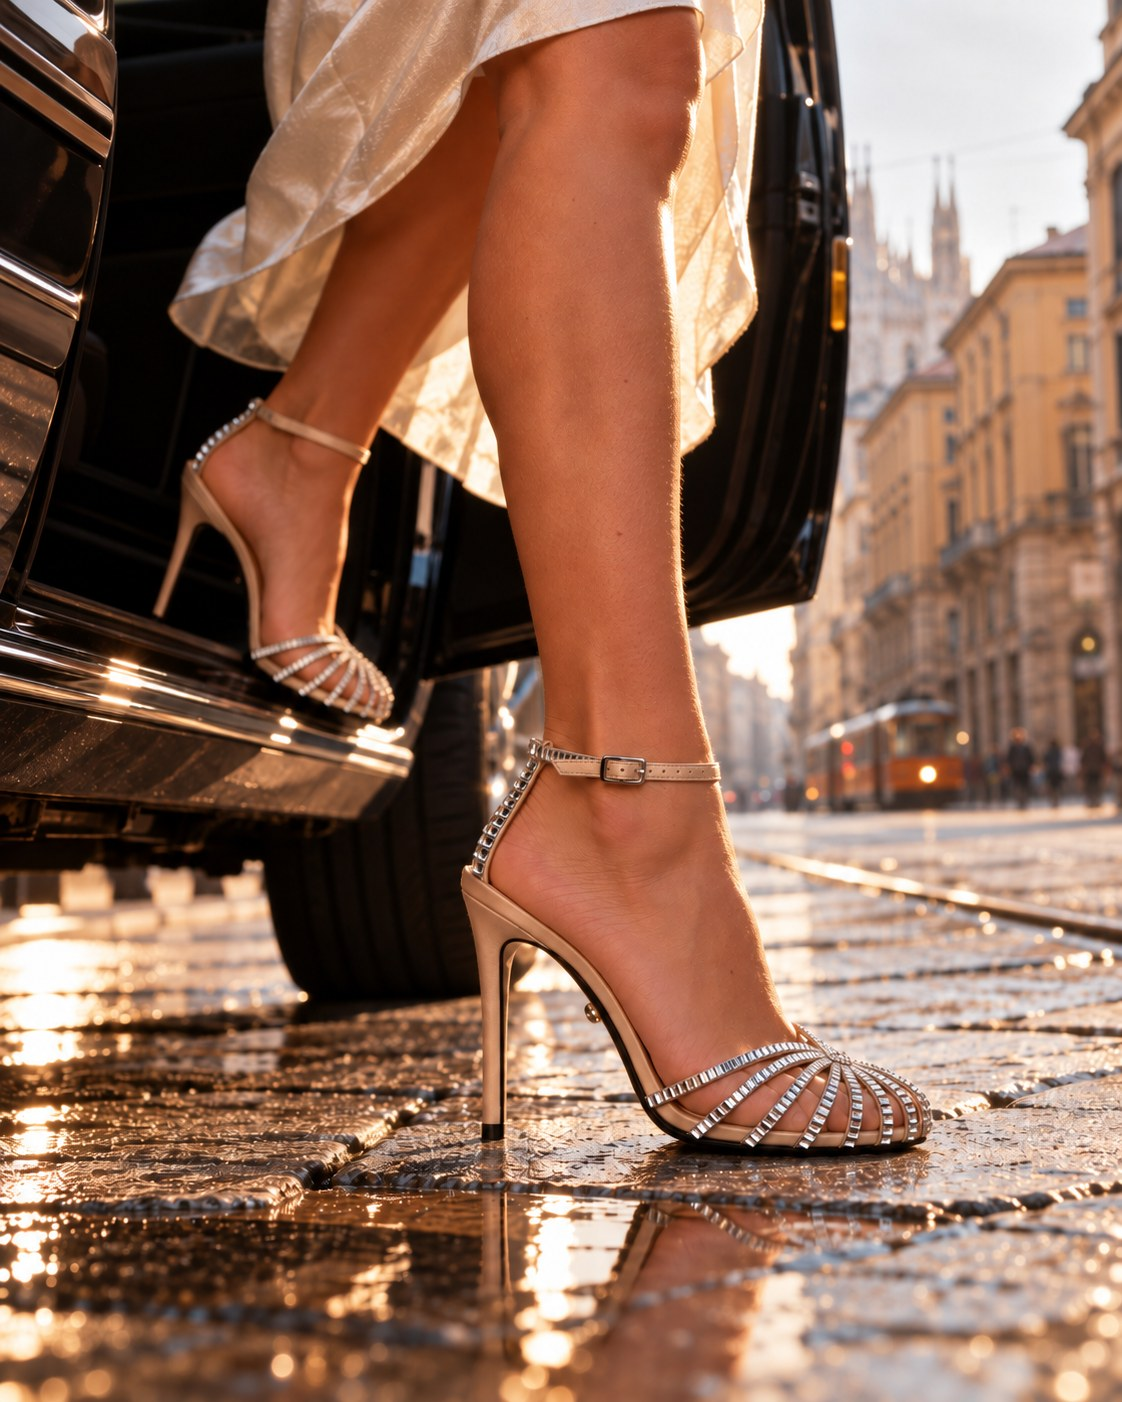
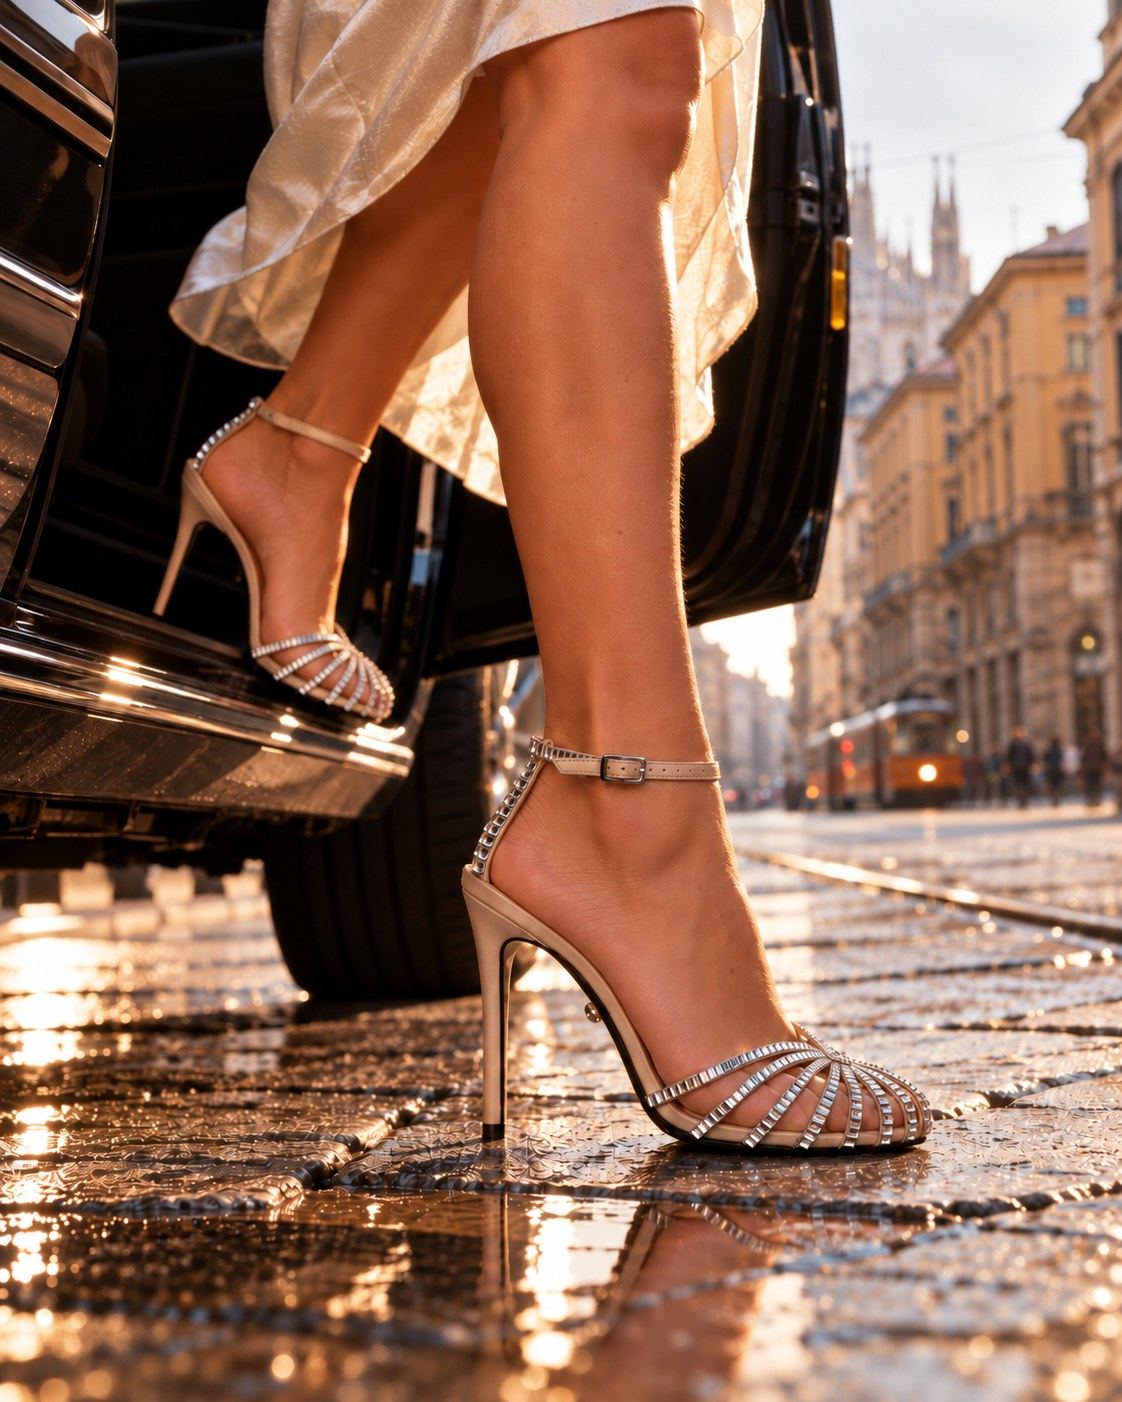
prova alevi: dita rifatte sul riferimento reale

diff --git a/prova/alevi-ccf3d7/index.html b/prova/alevi-ccf3d7/index.html
@@ -65,7 +65,7 @@ footer a{text-decoration:none}
     <h1>Penelope<br><i>Xtal 110</i></h1>
     <p class="sub">La mattina dopo. Milano all'alba, la festa è finita da poco, le Penelope sono ancora ai piedi.</p>
   </div>
-  <figure><img src="penelope-01.jpg?v=3" alt="Penelope Xtal 110 satin skin, Milano all'alba"></figure>
+  <figure><img src="penelope-01.jpg?v=4" alt="Penelope Xtal 110 satin skin, Milano all'alba"></figure>
 </div>
 
 <section>
@@ -74,7 +74,7 @@ footer a{text-decoration:none}
   <p class="lead">Sono partito dalle vostre foto di Penelope Xtal 110 in satin skin: profilo, tre quarti e retro. Penelope non è stata ridisegnata. La punta chiusa a gabbia, la raggiera di listini in raso con una fila di cristalli baguette ciascuno, il cinturino alla caviglia con la fibbia rettangolare, il listino di cristalli dietro il tallone, il tacco a spillo da 110 rivestito in raso con il sopratacco nero, il bordo nero della suola e la perla sotto l'arco sono quelli delle vostre foto. Cambia solo la vita che le sta intorno.</p>
   <div class="pair wide">
     <figure><div class="frame pack"><img src="packshot.jpg" alt="La vostra foto di profilo"></div><figcaption>La vostra foto</figcaption></figure>
-    <figure><div class="frame"><img src="dettaglio.jpg?v=3" alt="Penelope al piede, primo piano"></div><figcaption>In campagna</figcaption></figure>
+    <figure><div class="frame"><img src="dettaglio.jpg?v=4" alt="Penelope al piede, primo piano"></div><figcaption>In campagna</figcaption></figure>
   </div>
   <div class="pair">
     <figure><div class="frame pack"><img src="packshot-retro.jpg" alt="La vostra foto del retro"></div><figcaption>La vostra foto, retro</figcaption></figure>
@@ -82,20 +82,20 @@ footer a{text-decoration:none}
   </div>
 </section>
 
-<section class="full"><img src="penelope-02.jpg?v=3" alt="Scendendo dall'auto"></section>
+<section class="full"><img src="penelope-02.jpg?v=4" alt="Scendendo dall'auto"></section>
 
 <section>
   <span class="num">02 — La serie</span>
   <h2>Una donna, un'alba, tre momenti.</h2>
   <p class="lead">Stessa donna, stesso abito di seta, stessa strada bagnata con il Duomo in fondo: la risata sul sedile con la portiera aperta, il primo passo sulla pietra, il rientro a casa con la giacca sulla spalla. Un racconto unico, con la scarpa sempre protagonista e leggibile, da tre lati diversi.</p>
   <div class="gal">
-    <figure><img src="penelope-01.jpg?v=3" alt="La risata"><figcaption>La risata</figcaption></figure>
-    <figure><img src="penelope-02.jpg?v=3" alt="Il primo passo"><figcaption>Il primo passo</figcaption></figure>
+    <figure><img src="penelope-01.jpg?v=4" alt="La risata"><figcaption>La risata</figcaption></figure>
+    <figure><img src="penelope-02.jpg?v=4" alt="Il primo passo"><figcaption>Il primo passo</figcaption></figure>
     <figure><img src="penelope-03.jpg" alt="Il rientro"><figcaption>Il rientro</figcaption></figure>
   </div>
 </section>
 
-<section class="full"><img src="dettaglio.jpg?v=3" alt="Primo piano" style="max-height:none"></section>
+<section class="full"><img src="dettaglio.jpg?v=4" alt="Primo piano" style="max-height:none"></section>
 <section class="full"><img src="penelope-03.jpg" alt="Il rientro"></section>
 
 <section class="site">
